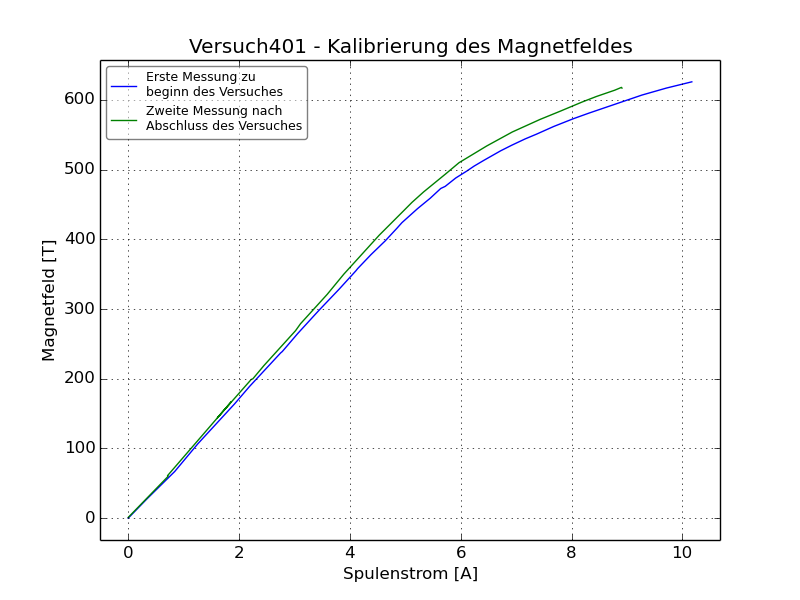
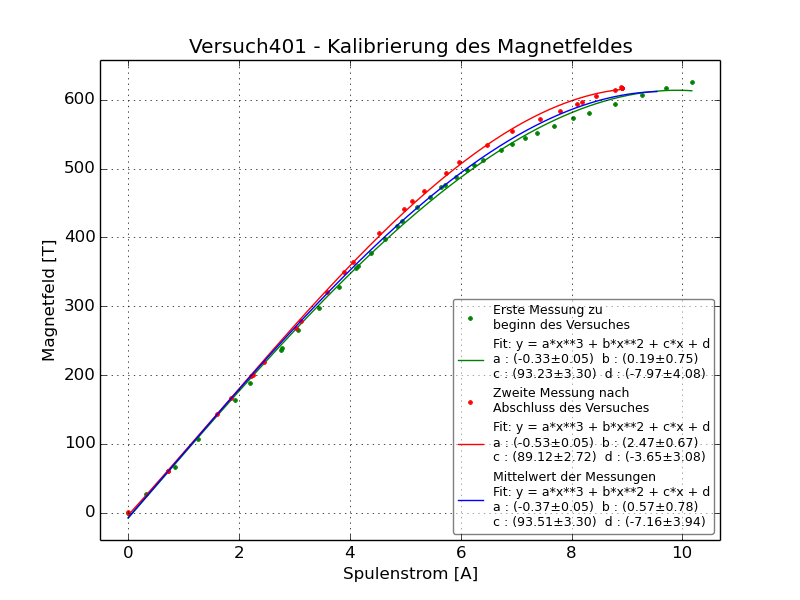
kombinations plots beim FPE gemacht und noch was zur magnetfeldkalibrierung geschrieben

diff --git a/Versuch401-Elektronische-Uebergaenge-in-Atomen/Report/Versuch401_TobiasBrauell_FrederikeSchroedel_Report.tex b/Versuch401-Elektronische-Uebergaenge-in-Atomen/Report/Versuch401_TobiasBrauell_FrederikeSchroedel_Report.tex
@@ -103,13 +103,7 @@
     \begin{section}{Durchführung}
       \label{chp:Zeeman:sec:Durchfuehrung}
       
-      \begin{figure}[ht]
-        \centering
-        \includegraphics[width=\textwidth]
-            {Figures/Versuch401-KalibrierungdesMagnetfeldes.png}
-        \caption{Messung zur Kalibrierung des Magnetfeldes.}
-        \label{fig:MagnetfeldKalibrierung}
-      \end{figure}
+      
       
     \end{section}
     %%%%%%%%%%%%%%%%%%%%%%%%%%%%%
@@ -121,6 +115,44 @@
     %%%%%%%%%%%%%%%%%%%%%%%%%%%%%%
     \begin{section}{Auswertung des ersten Versuchstages}
       \label{chp:Zeeman:sec:Auswertung}
+      
+      
+      
+      %%%%%%%%%%%%%%%%%%%%%%%%%%%%%%%%%%%%%%%%
+      %%%%%%%%%%%%%%%%%%%%%%%%%%%%%%%%%%%%%%%%
+      %%%%%%%%%%%%%%%%%%%%%%%%%%%%%%%%%%%%%%%%
+      \begin{subsection}{Kalibrierung des Magnetfeldes}
+        \label{chp:Zeeman:sec:AuswertungMagnetfeld}
+        Für die Kalibrierung des Magnetfeldes vermessen wir die Abhängigkeit
+        des Magnetfeldes vom Spulenstrom mithilfe einer Hall-Sonde. Dazu fahren
+        wir den Spulenstrom von $\SI{0.0}{\ampere}$ bis $\SI{10.0}{\ampere}$
+        durch und messen die jeweilige Stärke des Magnetfeldes mit einem
+        \textit{CASSY}-Modul. An die so gewonnenen Messdaten passen wir jetzt
+        ein Polynom dritten Grades an und erhalten dafür die in
+        \cref{fig:MagnetfeldKalibrierung} angezeigten Parameter des Polynomes.
+        \begin{figure}[ht]
+          \centering
+          \includegraphics[width=\textwidth]
+              {Figures/Versuch401-KalibrierungdesMagnetfeldes.png}
+          \caption{Messung zur Kalibrierung des Magnetfeldes.}
+          \label{fig:MagnetfeldKalibrierung}
+        \end{figure}
+        \newline
+        Da sich die Temperatur der Magnetspulen allerdings im Betrieb ändert,
+        könnte sich der gefundene Zusammenhang zwischen Magnetfeld und
+        Spulenstrom im eigentlichen Betrieb mit der Zeit ebenfalls ändern.
+        Um die zeitliche Konsistenz des Zusammenhanges also zu überprüfen,
+        führen wir diese Messung sowohl vor beginn des Versuches als auch nach
+        der Beendigung des letzten Versuchteiles durch. Damit ist
+        gewährleistet, dass wir die Abhängigkeit des Magnetfeldes vom 
+        Spulenstrom sowohl für kalte als auch für eine warmgelaufene
+        Magnetspulen protokollieren.
+        \newline
+        Für folgenden Berechnungen des Magnetfeldes benutzen wir ab hier das,
+        an den Mittelwert angepasste Polynom.
+        
+      \end{subsection}
+      %%%%%%%%%%%%%%%%%%%%%%%%%%%%%%%%%%%%%%%%
       
       
       
@@ -211,7 +243,24 @@
       \begin{subsection}{Messung des Zeeman-Effekts}
         \label{chp:Zeeman:sec:AuswertungMessung}
         
-        
+        \begin{figure}[ht]
+          \centering
+          \begin{minipage}{0.48\textwidth}
+            \centering
+            \includegraphics[width=\textwidth]
+                {Figures/Versuch401-Fabry-Perot-Etalon-KombinationZoom_Winkel_Intensitaet.png}
+            \caption{Entwicklung der Aufspaltung für verschiedene Stärken des
+                Magnetfeldes.}
+            \label{fig:FPEcombiZOOM}
+          \end{minipage}\quad
+          \begin{minipage}{0.48\textwidth}
+            \centering
+            \includegraphics[width=\textwidth]
+                {Figures/Versuch401-Fabry-Perot-Etalon-Kombination_Winkel_Intensitaet.png}
+            \caption{Vergrößerter Ausschnitt der Entwicklung.}
+            \label{fig:FPEcombi}
+          \end{minipage}
+        \end{figure}
         
       \end{subsection}
       %%%%%%%%%%%%%%%%%%%%%%%%%%%%%%%%%%%%%%%%
@@ -348,8 +397,8 @@
         angegeben und passt damit sogar beinahe in die von uns berechneten
         Fehlergrenzen. Dieser Übergang besitzt außerdem bei etwa
         $\SI{5}{\electronvolt}$ ein Maximum im totalen Wirkungsquerschnitt
-        wodurch wir davon ausgehen können das es in unserem Versuch hauptsächlich
-        zu dieser Art des Elektronenüberganges gekommen ist.
+        wodurch wir davon ausgehen können das es in unserem Versuch
+        hauptsächlich zu dieser Art des Elektronenüberganges gekommen ist.
         \begin{figure}[ht]
           \centering
           \begin{minipage}{0.48\textwidth}
